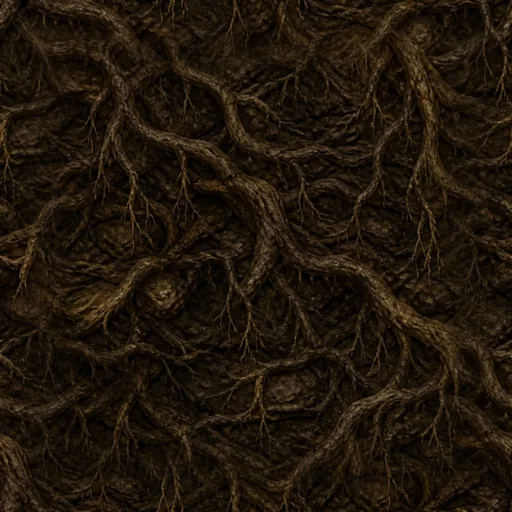
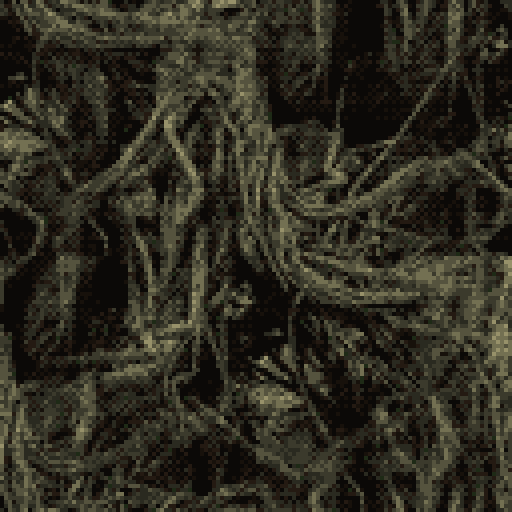
All eight places are now filtered CC0/CC BY photographs; first photo texture (forest ceiling)
Claude-Session: https://claude.ai/code/session_01LYhBkRE4JKYhfD2enut3zB

diff --git a/public/credits.html b/public/credits.html
@@ -38,10 +38,15 @@
       <table>
         <tr><th>Used for</th><th>Photo</th><th>By</th><th>Licence</th></tr>
         <!-- PHOTOS -->
-        <tr><td>Title screen</td><td><a href="https://commons.wikimedia.org/wiki/File%3ASequoia_Tree_Groove_at_Sequoia_National_Park.jpg">Sequoia Tree Groove at Sequoia National Park</a></td><td>?</td><td><a href="https://creativecommons.org/publicdomain/zero/1.0/">CC0 1.0</a></td></tr>
+        <tr><td>Title screen</td><td><a href="https://commons.wikimedia.org/wiki/File%3ASequoia_Tree_Groove_at_Sequoia_National_Park.jpg">Sequoia Tree Groove at Sequoia National Park</a></td><td>Daniel G. Rego</td><td><a href="https://creativecommons.org/publicdomain/zero/1.0/">CC0 1.0</a></td></tr>
         <tr><td>The Sleeping Stag (inn)</td><td><a href="https://commons.wikimedia.org/wiki/File%3AInside_Viking_House_in_Rosala_Viking_Center_in_Finland.jpg">Inside Viking House in Rosala Viking Center in Finland</a></td><td>Pöllö</td><td><a href="https://creativecommons.org/licenses/by/3.0/">CC BY 3.0</a></td></tr>
         <tr><td>Entrance to the Rootdeep</td><td><a href="https://commons.wikimedia.org/wiki/File%3AExposed_tree_roots_on_forest_trail.jpg">Exposed tree roots on forest trail</a></td><td>Mar Mkrtchyan</td><td><a href="https://creativecommons.org/publicdomain/zero/1.0/">CC0 1.0</a></td></tr>
         <tr><td>The Oath Hall</td><td><a href="https://commons.wikimedia.org/wiki/File%3AInterior_of_a_reconstructed_Viking_house_in_Hedeby_%28Haithabu%29_01.jpg">Interior of a reconstructed Viking house in Hedeby (Haithabu) 01</a></td><td>JuicyTomato56</td><td><a href="https://creativecommons.org/licenses/by/4.0/">CC BY 4.0</a></td></tr>
+        <tr><td>The Notice Board</td><td><a href="https://commons.wikimedia.org/wiki/File%3AOld_shed_wall_in_close-up_%28Unsplash%29.jpg">Old shed wall in close-up (Unsplash)</a></td><td>Zbysiu Rodak</td><td><a href="https://creativecommons.org/publicdomain/zero/1.0/">CC0 1.0</a></td></tr>
+        <tr><td>The Hornstone</td><td><a href="https://commons.wikimedia.org/wiki/File%3ARunestone_memorial_for_Thomas_E._Brittingham_Jr.%2C_University_of_Wisconsin-Madison.jpg">Runestone memorial for Thomas E. Brittingham Jr., University of Wisconsin-Madison</a></td><td>James Steakley</td><td><a href="https://creativecommons.org/licenses/by/4.0/">CC BY 4.0</a></td></tr>
+        <tr><td>Forest ceiling (chapter I)</td><td><a href="https://commons.wikimedia.org/wiki/File%3AA_tangled_mess_%2842904180441%29.jpg">A tangled mess (42904180441)</a></td><td>Sheila Sund</td><td><a href="https://creativecommons.org/licenses/by/2.0/">CC BY 2.0</a></td></tr>
+        <tr><td>Lindholm (town)</td><td><a href="https://commons.wikimedia.org/wiki/File%3ALofotr_01.jpg">Lofotr 01</a></td><td>Jorge Andrade</td><td><a href="https://creativecommons.org/licenses/by/2.0/">CC BY 2.0</a></td></tr>
+        <tr><td>Hilde&#x27;s Supplies (shop)</td><td><a href="https://commons.wikimedia.org/wiki/File%3AViking-era_footwear_-_Lofotr_Viking_Museum.jpg">Viking-era footwear - Lofotr Viking Museum</a></td><td>Justin Hall</td><td><a href="https://creativecommons.org/licenses/by/2.0/">CC BY 2.0</a></td></tr>
       </table>
 
       <h2>Icons</h2>

diff --git a/scripts/photo-to-art.py b/scripts/photo-to-art.py
@@ -88,16 +88,17 @@ def palettize(im: Image.Image, mood: str, vignette: bool) -> Image.Image:
     return im
 
 
-def texture(src: str, out: str, width: int, mood: str) -> None:
+def texture(src: str, out: str, width: int, mood: str, light: float = 1.0) -> None:
     im = Image.open(src).convert('RGB')
     w, h = im.size
     n = min(w, h)
     im = im.crop(((w - n) // 2, (h - n) // 2, (w - n) // 2 + n, (h - n) // 2 + n)).resize((width * 4, width * 4), Image.LANCZOS)
     im = seamless(im).filter(ImageFilter.SMOOTH_MORE).resize((width, width), Image.LANCZOS)
+    im = ImageEnhance.Brightness(im).enhance(light)
     save(palettize(im, mood, False).resize((512, 512), Image.NEAREST), out)
 
 
-def convert(src: str, out: str, width: int, mood: str, size: tuple[int, int], patches=(), light: float = 1.0) -> None:
+def convert(src: str, out: str, width: int, mood: str, size: tuple[int, int], patches=(), light: float = 1.0, focus: float = 0.5) -> None:
     im = Image.open(src).convert('RGB')
     # Crop to 16:9 around the centre.
     target = 16 / 9
@@ -107,7 +108,8 @@ def convert(src: str, out: str, width: int, mood: str, size: tuple[int, int], pa
         im = im.crop(((w - nw) // 2, 0, (w - nw) // 2 + nw, h))
     else:
         nh = int(w / target)
-        im = im.crop((0, (h - nh) // 2, w, (h - nh) // 2 + nh))
+        top = int((h - nh) * focus)
+        im = im.crop((0, top, w, top + nh))
     # Cover modern details with the patch of picture just to their left (or right, at the left edge).
     for fx, fy, fw, fh in patches:
         W, H = im.size
@@ -155,10 +157,11 @@ if __name__ == '__main__':
     ap.add_argument('--mood', choices=['warm', 'cold', 'neutral'], default='neutral')
     ap.add_argument('--patch', action='append', default=[], help='x,y,w,h as fractions of the picture')
     ap.add_argument('--texture', action='store_true', help='a square, seamlessly repeating texture')
+    ap.add_argument('--focus', type=float, default=0.5, help='which part of a tall photo to keep: 0 top, 0.5 middle, 1 bottom')
     ap.add_argument('--light', type=float, default=1.0, help='brightness before the palette, e.g. 0.6 for dusk')
     args = ap.parse_args()
     if args.texture:
-        texture(args.src, args.out, args.width if args.width != 320 else 128, args.mood)
+        texture(args.src, args.out, args.width if args.width != 320 else 128, args.mood, args.light)
         raise SystemExit
     patches = [tuple(float(v) for v in p.split(',')) for p in args.patch]
-    convert(args.src, args.out, args.width, args.mood, (1280, 720), patches, args.light)
+    convert(args.src, args.out, args.width, args.mood, (1280, 720), patches, args.light, args.focus)
